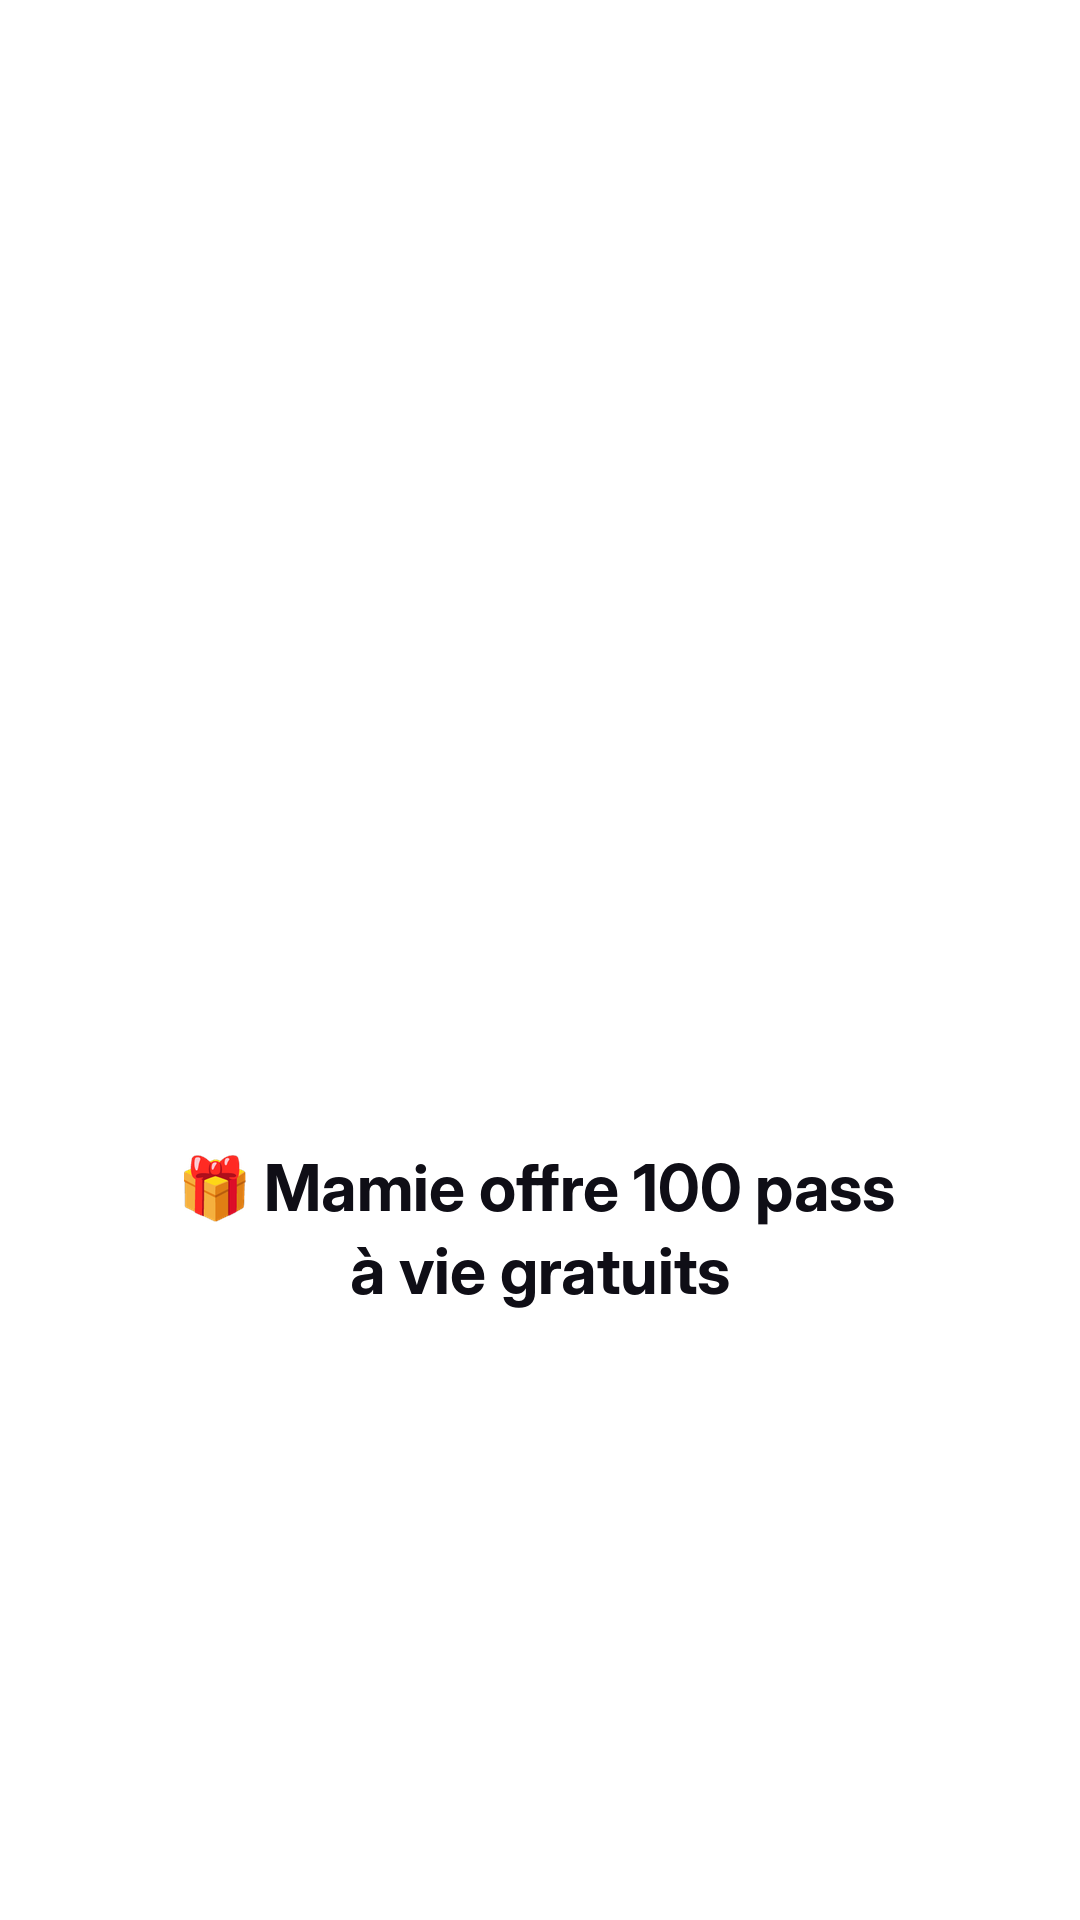
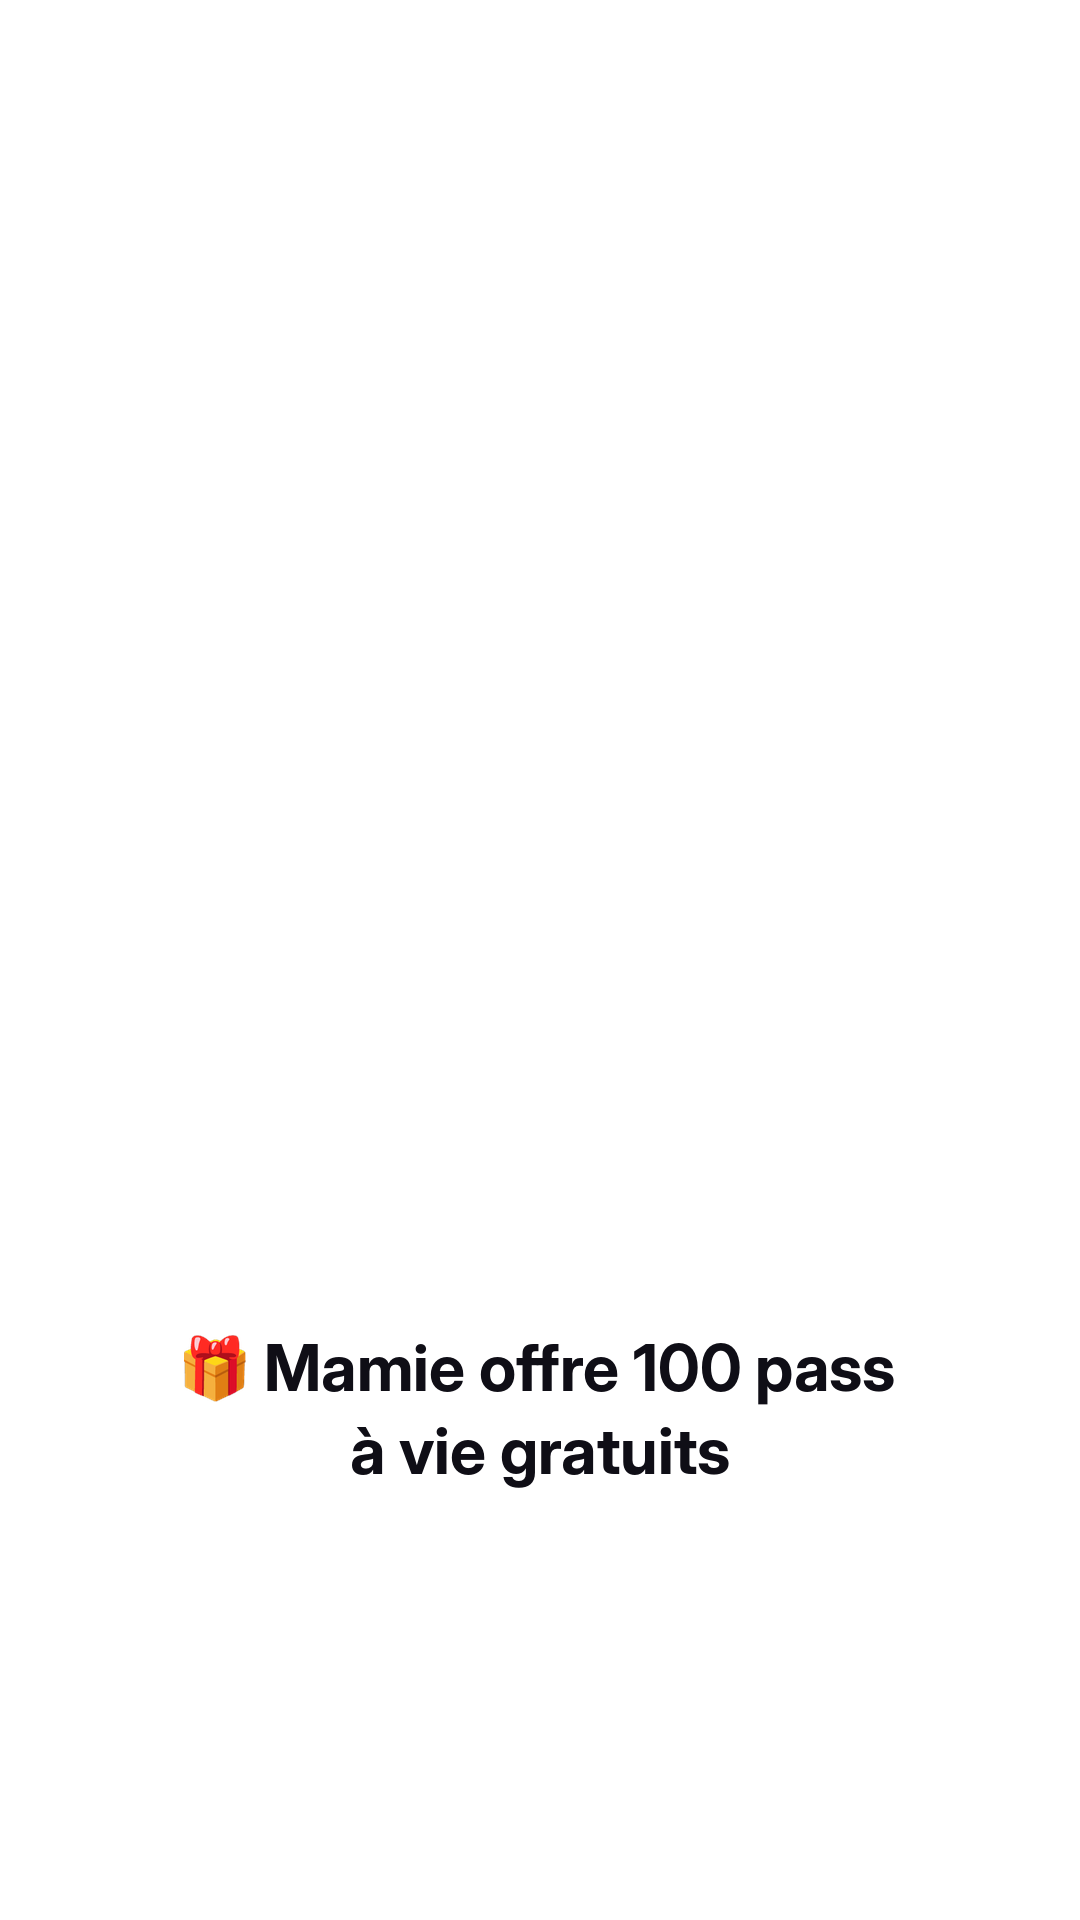
Pass overlays lower
Claude-Session: https://claude.ai/code/session_01Nfw8GqVW5u5Dp8ws2maeUt

Changed region(s): [[0.1528, 0.5938, 0.825, 0.7812]]

diff --git a/pass_overlays.py b/pass_overlays.py
@@ -27,7 +27,7 @@ CTA = {
 if __name__ == "__main__":
     out = sys.argv[1]; os.makedirs(out, exist_ok=True)
     for lg in HOOK:
-        card(HOOK[lg], size=64, y=1120).save(f"{out}/pass_hook_{lg}.png")
-        card(PAY[lg], size=58, y=1120).save(f"{out}/pass_pay_{lg}.png")
-        card(CTA[lg], size=58, y=1120).save(f"{out}/pass_cta_{lg}.png")
+        card(HOOK[lg], size=64, y=1300).save(f"{out}/pass_hook_{lg}.png")
+        card(PAY[lg], size=58, y=1300).save(f"{out}/pass_pay_{lg}.png")
+        card(CTA[lg], size=58, y=1300).save(f"{out}/pass_cta_{lg}.png")
     print("ok")
